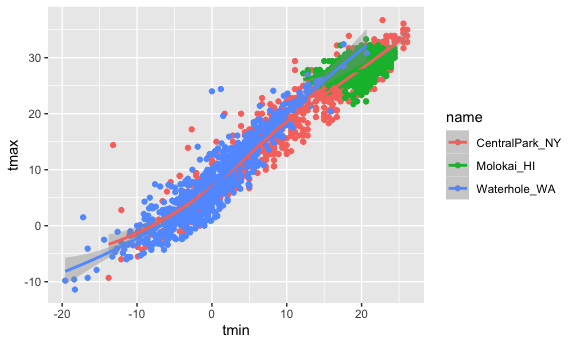
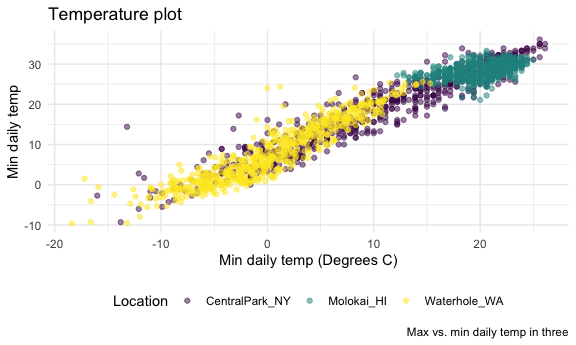
data manipulation

diff --git a/viz_part-1.md b/viz_part-1.md
@@ -19,6 +19,8 @@ library(tidyverse)
     ## ℹ Use the conflicted package (<http://conflicted.r-lib.org/>) to force all conflicts to become errors
 
 ``` r
+library(patchwork)
+
 knitr::opts_chunk$set(
   fig.width = 6,
   fig.asp = .6,
@@ -34,8 +36,8 @@ weather_df =
   rnoaa::meteo_pull_monitors(
     c("USW00094728", "USW00022534", "USS0023B17S"),
     var = c("PRCP", "TMIN", "TMAX"), 
-    date_min = "2021-01-01",
-    date_max = "2022-12-31") |>
+    date_min = "2022-01-01",
+    date_max = "2023-12-31") |>
   mutate(
     name = recode(
       id, 
@@ -69,6 +71,8 @@ weather_df =
 #the things in c is monitor
 ```
 
+This results in a dataframe with 2007 observations on six variables.
+
 ## Same plot from last time
 
 ``` r
@@ -82,7 +86,7 @@ weather_df |>
 )
 ```
 
-    ## Warning: Removed 17 rows containing missing values (`geom_point()`).
+    ## Warning: Removed 90 rows containing missing values (`geom_point()`).
 
 <img src="viz_part-1_files/figure-gfm/unnamed-chunk-3-1.png" width="90%" />
 
@@ -115,7 +119,7 @@ weather_df |>
 
     ## Warning: Transformation introduced infinite values in continuous y-axis
 
-    ## Warning: Removed 142 rows containing missing values (`geom_point()`).
+    ## Warning: Removed 195 rows containing missing values (`geom_point()`).
 
 <img src="viz_part-1_files/figure-gfm/unnamed-chunk-4-1.png" width="90%" />
 
@@ -145,7 +149,7 @@ weather_df |>
   viridis::scale_color_viridis(discrete = TRUE)
 ```
 
-    ## Warning: Removed 17 rows containing missing values (`geom_point()`).
+    ## Warning: Removed 90 rows containing missing values (`geom_point()`).
 
 <img src="viz_part-1_files/figure-gfm/unnamed-chunk-5-1.png" width="90%" />
 
@@ -153,4 +157,220 @@ weather_df |>
  # use viridis color package 
 ```
 
+what is the utility of scales?
+
 ## Themes
+
+``` r
+weather_df |> 
+  ggplot(aes(x = tmin, y = tmax, color = name)) + geom_point(alpha=0.5)+ labs(
+    title = "Temperature plot",
+    x = "Min daily temp (Degrees C)",
+    y ="Min daily temp",
+    color = "Location",
+    caption = "Max vs. min daily temp in three") + 
+  viridis::scale_color_viridis(discrete = TRUE)+theme_minimal()+
+  theme(legend.position = "bottom")
+```
+
+    ## Warning: Removed 90 rows containing missing values (`geom_point()`).
+
+<img src="viz_part-1_files/figure-gfm/unnamed-chunk-6-1.png" width="90%" />
+
+``` r
+  #theme function to change position
+#theme_bw: make the background change to other color, notice! this need to type before theme(change the position), if this take in the end, theme(position) would fail to change
+
+#theme_bw/classic/minimal----change different ways to show pictures
+```
+
+## data argument…
+
+``` r
+weather_df |> 
+  ggplot (aes(x = date, y = tmax, color = name))+ geom_point() + geom_smooth()
+```
+
+    ## `geom_smooth()` using method = 'loess' and formula = 'y ~ x'
+
+    ## Warning: Removed 90 rows containing non-finite values (`stat_smooth()`).
+
+    ## Warning: Removed 90 rows containing missing values (`geom_point()`).
+
+<img src="viz_part-1_files/figure-gfm/unnamed-chunk-7-1.png" width="90%" />
+
+``` r
+nyc_weather_df = 
+  weather_df |> 
+  filter(name =="CentralPark_NY")
+
+hawaii_weather_df = 
+  weather_df |> 
+  filter(name =="Molokai_HI")
+```
+
+## `patchwork`
+
+``` r
+weather_df |> 
+  ggplot(aes(x = date, y = tmax, color = name))+ geom_point()+ facet_grid(.~name)
+```
+
+    ## Warning: Removed 90 rows containing missing values (`geom_point()`).
+
+<img src="viz_part-1_files/figure-gfm/unnamed-chunk-8-1.png" width="90%" />
+
+``` r
+ggp_temp_scatter = 
+  weather_df |> 
+  ggplot(aes(x = tmin, y = tmax, color = name))+ geom_point(alpha=0.5)+
+theme(legend.position = "none")
+
+ggp_prcp_density = 
+  weather_df |> 
+  filter(prcp>25) |> 
+  ggplot(aes(x = prcp, fill = name))+ geom_density(alpha=0.5)+
+theme(legend.position = "none")
+
+ggp_temp_scatter+ggp_prcp_density
+```
+
+    ## Warning: Removed 90 rows containing missing values (`geom_point()`).
+
+<img src="viz_part-1_files/figure-gfm/unnamed-chunk-9-1.png" width="90%" />
+
+``` r
+#package patchwork can put ggplot pictures next to each other
+
+ggp_tmax_date=
+  weather_df |> 
+  ggplot(aes(x= date, y=tmax, color=name))+
+  geom_point()+geom_smooth(se=FALSE)+theme(legend.position = "bottom")
+
+(ggp_temp_scatter+ggp_prcp_density)/ggp_tmax_date
+```
+
+    ## Warning: Removed 90 rows containing missing values (`geom_point()`).
+
+    ## `geom_smooth()` using method = 'loess' and formula = 'y ~ x'
+
+    ## Warning: Removed 90 rows containing non-finite values (`stat_smooth()`).
+    ## Removed 90 rows containing missing values (`geom_point()`).
+
+<img src="viz_part-1_files/figure-gfm/unnamed-chunk-9-2.png" width="90%" />
+
+## data manipulation
+
+``` r
+weather_df |>
+  mutate(
+    name = fct_relevel(name, c("Molokai_HI", "CentralPark_NY", "Waterhole_WA"))
+  ) |> 
+  ggplot(aes(x = name, y= tmax))+geom_boxplot()
+```
+
+    ## Warning: Removed 90 rows containing non-finite values (`stat_boxplot()`).
+
+<img src="viz_part-1_files/figure-gfm/unnamed-chunk-10-1.png" width="90%" />
+
+``` r
+#control the order of factors
+
+weather_df |> 
+  mutate(
+    name = fct_reorder(name, tmax)
+  ) |> 
+  ggplot(aes(x = name, y = tmax, fill=name))+geom_violin()
+```
+
+    ## Warning: There was 1 warning in `mutate()`.
+    ## ℹ In argument: `name = fct_reorder(name, tmax)`.
+    ## Caused by warning:
+    ## ! `fct_reorder()` removing 90 missing values.
+    ## ℹ Use `.na_rm = TRUE` to silence this message.
+    ## ℹ Use `.na_rm = FALSE` to preserve NAs.
+
+    ## Warning: Removed 90 rows containing non-finite values (`stat_ydensity()`).
+
+<img src="viz_part-1_files/figure-gfm/unnamed-chunk-10-2.png" width="90%" />
+
+``` r
+#fct_reorder function: you want to put name in order according to some other variable in your data set
+#like put name in order according to tamx variable: the first factors is with the lowest average tmax, the second is the one with tne next lowest
+```
+
+## complicates FAS plot
+
+``` r
+litters_df = 
+  read_csv("data/FAS_litters.csv") |> 
+  janitor::clean_names() |> 
+  separate(group, into = c("dose", "day_of_tx"), sep = 3)
+```
+
+    ## Rows: 49 Columns: 8
+    ## ── Column specification ────────────────────────────────────────────────────────
+    ## Delimiter: ","
+    ## chr (2): Group, Litter Number
+    ## dbl (6): GD0 weight, GD18 weight, GD of Birth, Pups born alive, Pups dead @ ...
+    ## 
+    ## ℹ Use `spec()` to retrieve the full column specification for this data.
+    ## ℹ Specify the column types or set `show_col_types = FALSE` to quiet this message.
+
+``` r
+pups_df=
+  read_csv("data/FAS_pups.csv") |> 
+  janitor::clean_names()
+```
+
+    ## Rows: 313 Columns: 6
+    ## ── Column specification ────────────────────────────────────────────────────────
+    ## Delimiter: ","
+    ## chr (1): Litter Number
+    ## dbl (5): Sex, PD ears, PD eyes, PD pivot, PD walk
+    ## 
+    ## ℹ Use `spec()` to retrieve the full column specification for this data.
+    ## ℹ Specify the column types or set `show_col_types = FALSE` to quiet this message.
+
+``` r
+fas_df=
+  left_join(pups_df, litters_df, by = "litter_number")
+fas_df
+```
+
+    ## # A tibble: 313 × 14
+    ##    litter_number   sex pd_ears pd_eyes pd_pivot pd_walk dose  day_of_tx
+    ##    <chr>         <dbl>   <dbl>   <dbl>    <dbl>   <dbl> <chr> <chr>    
+    ##  1 #85               1       4      13        7      11 Con   7        
+    ##  2 #85               1       4      13        7      12 Con   7        
+    ##  3 #1/2/95/2         1       5      13        7       9 Con   7        
+    ##  4 #1/2/95/2         1       5      13        8      10 Con   7        
+    ##  5 #5/5/3/83/3-3     1       5      13        8      10 Con   7        
+    ##  6 #5/5/3/83/3-3     1       5      14        6       9 Con   7        
+    ##  7 #5/4/2/95/2       1      NA      14        5       9 Con   7        
+    ##  8 #4/2/95/3-3       1       4      13        6       8 Con   7        
+    ##  9 #4/2/95/3-3       1       4      13        7       9 Con   7        
+    ## 10 #2/2/95/3-2       1       4      NA        8      10 Con   7        
+    ## # ℹ 303 more rows
+    ## # ℹ 6 more variables: gd0_weight <dbl>, gd18_weight <dbl>, gd_of_birth <dbl>,
+    ## #   pups_born_alive <dbl>, pups_dead_birth <dbl>, pups_survive <dbl>
+
+``` r
+#what is mean of left_join?????
+
+
+
+fas_df |> 
+  select(sex, dose, day_of_tx, starts_with("pd")) |> 
+  pivot_longer(
+    pd_ears:pd_walk,
+    names_to = "outcome",
+    values_to = "pn_day"
+  ) |> 
+  drop_na() |> 
+  mutate(outcome = fct_reorder(outcome, pn_day)) |> 
+  ggplot(aes(x = dose, y = pn_day))+ geom_violin()+
+  facet_grid(day_of_tx~ outcome)
+```
+
+<img src="viz_part-1_files/figure-gfm/unnamed-chunk-11-1.png" width="90%" />
